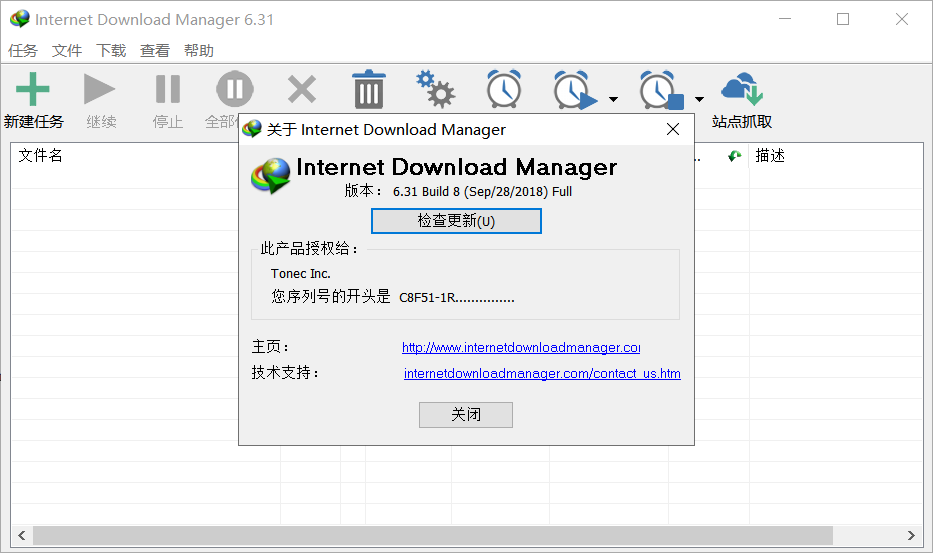
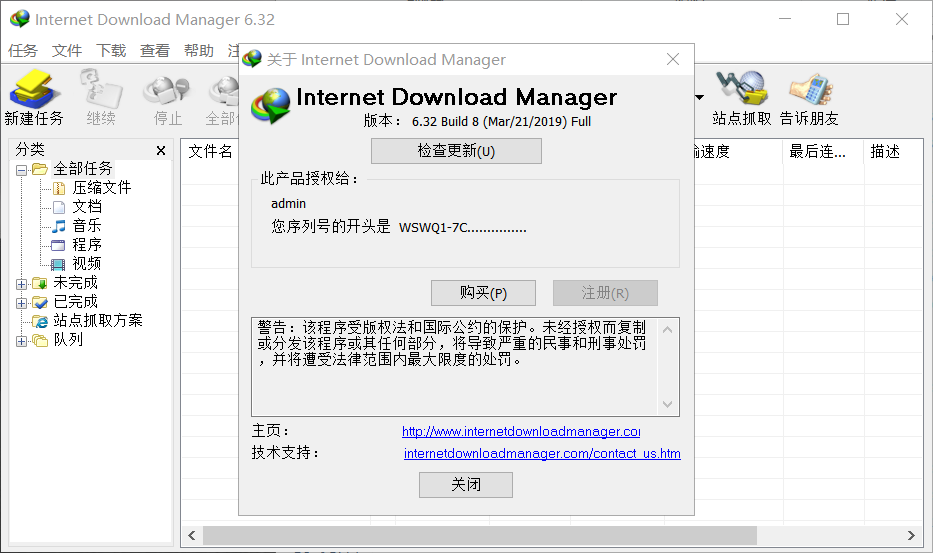
更新idm

diff --git a/_posts/2019-03-20-idm.md b/_posts/2019-03-20-idm.md
@@ -1,0 +1,36 @@
+---
+layout: post
+title: IDM 6.32 Build 8 绿色版
+category: pc
+---
+一款经典多线程下载工具
+
+---
+
+## 特点
+
+1. 经典的高速下载工具
+2. 绿色版，解压即用。
+3. 可以有下载百度云不限速、抓取在线视频地址等操作。
+
+
+![图片](/pic/idm.png "idm")
+
+![图片](/pic/idm.png "idm2")
+
+---
+
+## Tips
+> 解压到任意文件夹，双击【!绿化卸载.bat】，有安装其他版本的先2卸载再1绿化。（不绿化就没有浏览器插件，需要自己手动安装，直接绿化省事。）
+
+## 下载地址
+> [直接下载](https://raw.githubusercontent.com/dagaoya/download/master/PC/IDM.6.32.8.7z)
+
+---
+
+## 不限速百度云
+
+1. 浏览器安装tampermonkey（油猴）插件。应用中心-->直接搜索tampermonkey，点击安装即可。
+2. 在浏览器中安装脚本，打开https://greasyfork.org/zh-CN/scripts，安装“百度网盘直接下载助手 直链加速版”脚本。
+3. 安装完成后重启浏览器。
+4. 再打开百度云页面，在页面上部就会出现一个“下载助手”的按钮，点击按钮会出现：下载、显示链接、批量链接等选项，点击下载，IDM会自动嗅探到资源，弹出一个下载文件信息框，点击开始下载。
